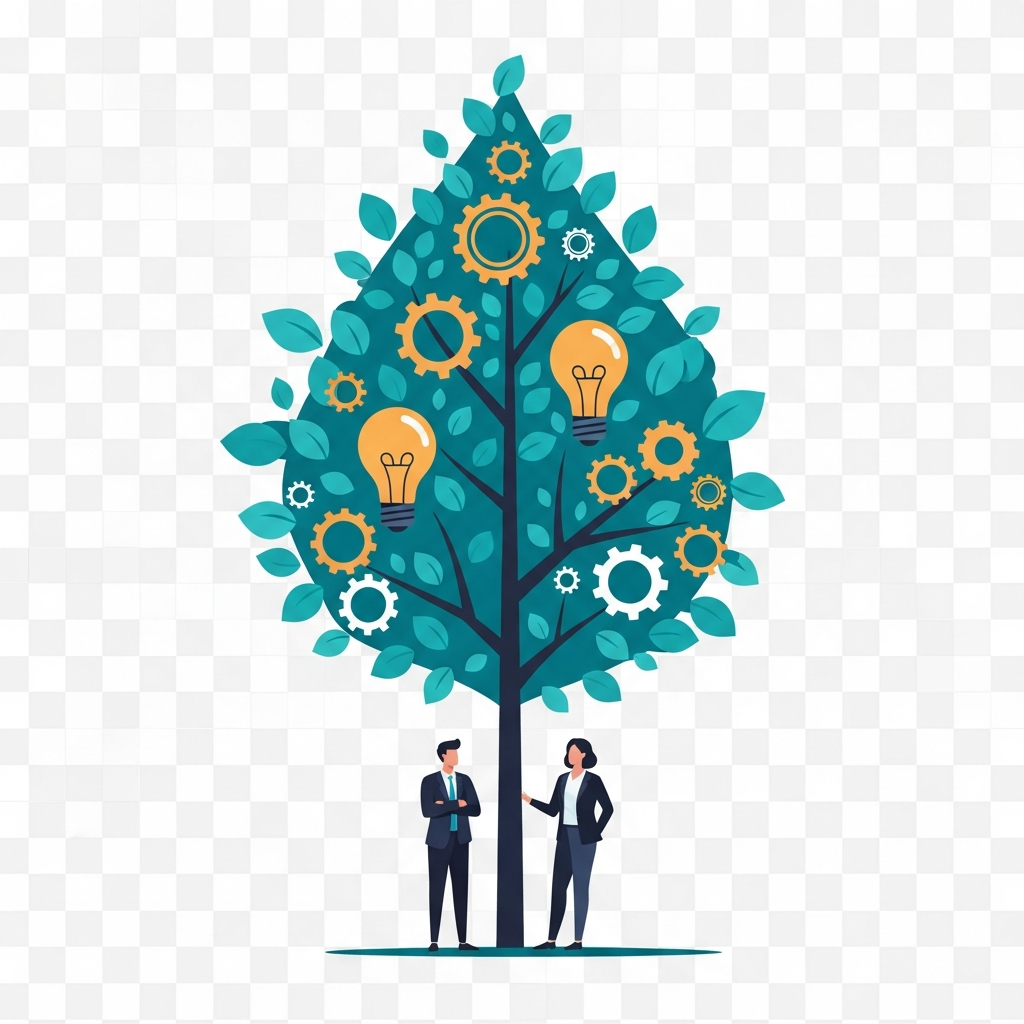
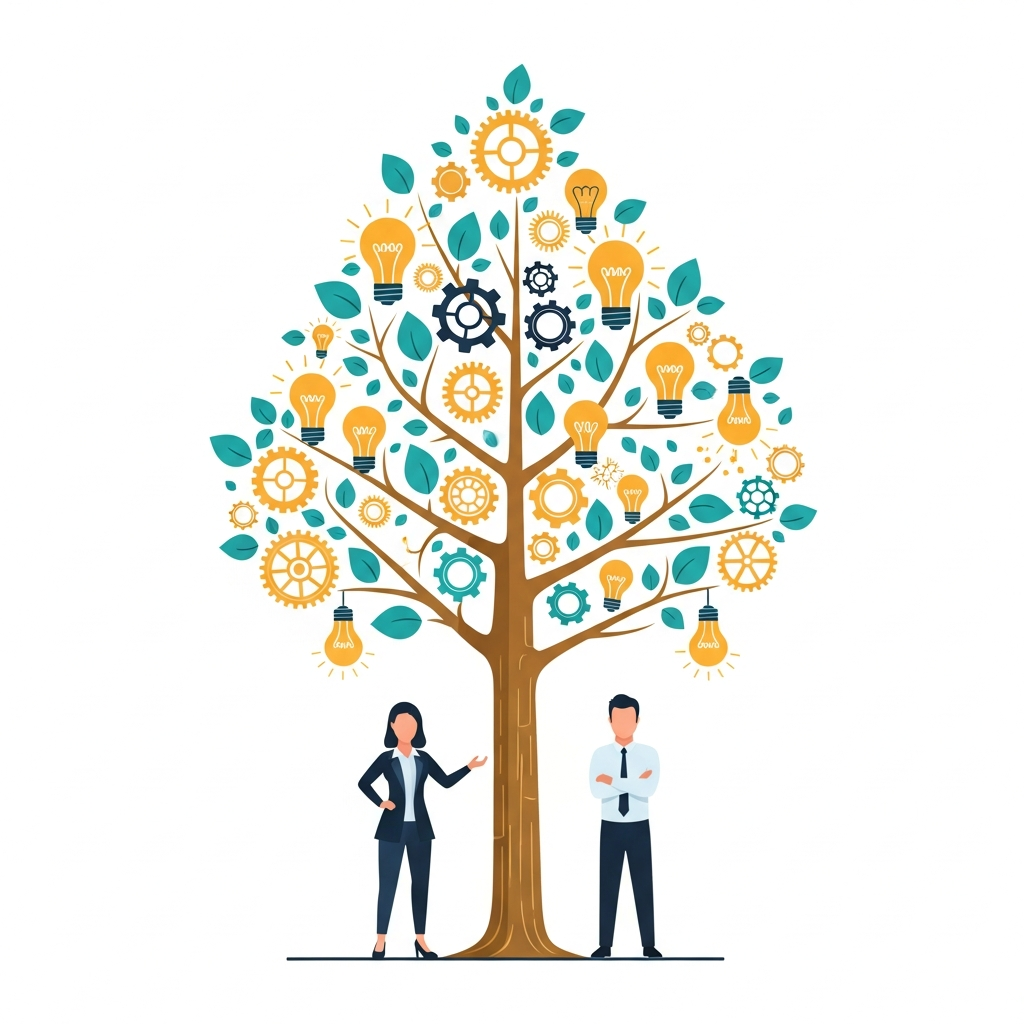
White bg hero illustration with mix-blend-multiply for seamless blending

Changed region(s): [[0.1875, 0.0312, 0.8125, 0.9375]]

diff --git a/src/app/page.tsx b/src/app/page.tsx
@@ -71,7 +71,7 @@ export default function Home() {
                 alt="Professionals beneath a growth tree of ideas, gears, and lightbulbs"
                 width={420}
                 height={420}
-                className="w-56 rounded-[2rem] bg-teal p-4 drop-shadow-[0_10px_40px_rgba(0,0,0,0.08)] md:w-68 lg:w-80"
+                className="w-56 mix-blend-multiply md:w-72 lg:w-80"
               />
             </Reveal>
           </div>
